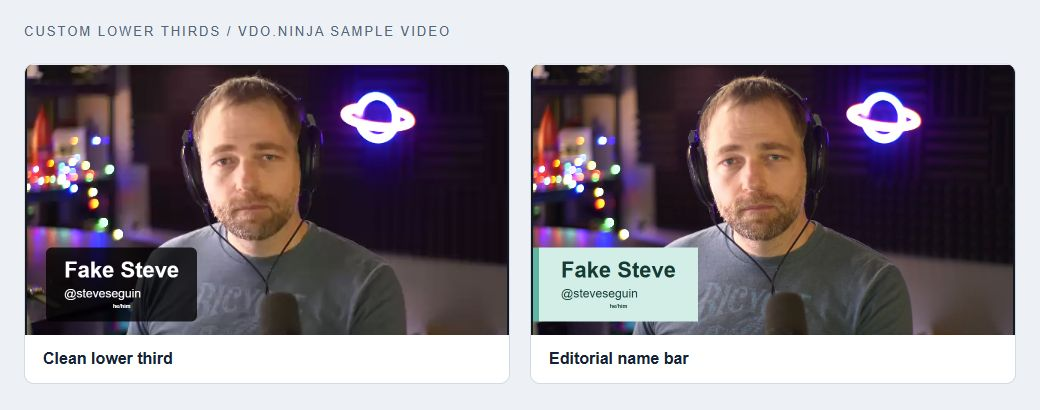
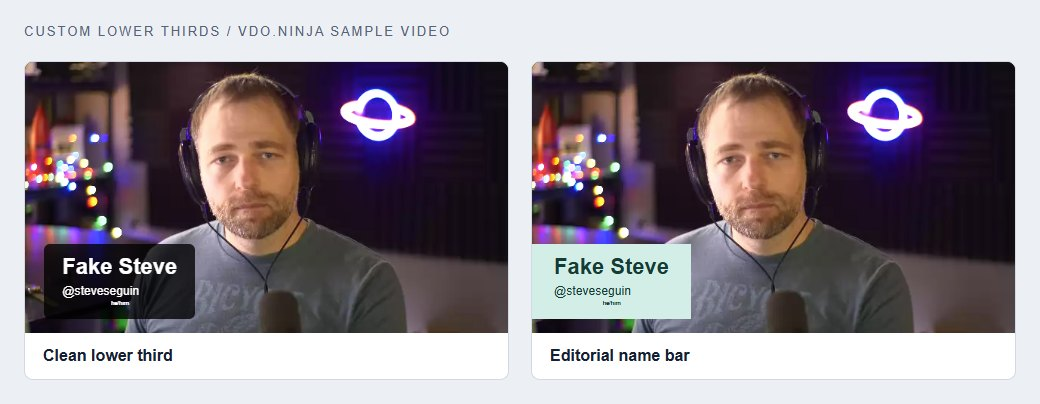
docs: Use neutral borders in guest styling examples
Remove the accent edge stripes from the editorial CSS recipe, both
starter presets and the dynamic stage nameplate. Refresh the starter
ZIP and the three screenshots, and fix a separator in the OBS page.

diff --git a/.gitbook/assets/guest-video-styling/styled-scene.html b/.gitbook/assets/guest-video-styling/styled-scene.html
@@ -86,9 +86,9 @@
 			var sound = false;
 			var currentSource = "";
 			var presets = {
-				editorial: ".video-label { bottom: 5%; left: 0; background: #d3eee7; color: #153b34; padding: 10px 22px; border-left: 6px solid #60b6a0; font-family: Arial, sans-serif; font-weight: bold; }\n.video-label > span:nth-child(2) { font-size: 55%; text-align: left; margin-top: 4px; font-weight: normal; }\n.holder, .holder > video { border-color: #60b6a0 !important; }",
+				editorial: ".video-label { bottom: 5%; left: 0; background: #d3eee7; color: #153b34; padding: 10px 22px; font-family: Arial, sans-serif; font-weight: bold; }\n.video-label > span:nth-child(2) { font-size: 55%; text-align: left; margin-top: 4px; font-weight: normal; }\n.holder, .holder > video { border-color: #60b6a0 !important; }",
 				minimal: ".video-label { bottom: 5%; left: 4%; background: rgba(0,0,0,.75); color: white; padding: 8px 14px; border-radius: 5px; font-family: Arial, sans-serif; font-weight: normal; }\n.video-label > span:nth-child(2) { font-size: 55%; text-align: left; margin-top: 3px; }\n.holder, .holder > video { border-color: #c7d4dc !important; }",
-				esports: ".video-label { bottom: 0; left: 0; width: 100%; background: #13172a; color: #f3f3ff; padding: 10px 18px; border-left: 8px solid #b3a0ff; font-family: Arial, sans-serif; font-weight: bold; text-transform: uppercase; }\n.video-label > span:nth-child(2) { font-size: 55%; text-align: left; color: #c6b9ff; margin-top: 3px; }\n.holder, .holder > video { border-color: #b3a0ff !important; }"
+				esports: ".video-label { bottom: 0; left: 0; width: 100%; background: #13172a; color: #f3f3ff; padding: 10px 18px; font-family: Arial, sans-serif; font-weight: bold; text-transform: uppercase; }\n.video-label > span:nth-child(2) { font-size: 55%; text-align: left; color: #c6b9ff; margin-top: 3px; }\n.holder, .holder > video { border-color: #b3a0ff !important; }"
 			};
 			function load() {
 				var url;

diff --git a/.gitbook/assets/guest-video-styling/dynamic-stage.html b/.gitbook/assets/guest-video-styling/dynamic-stage.html
@@ -28,7 +28,7 @@
 		.card.featured { grid-column: 1 / -1; }
 		.picture { position: relative; padding-bottom: 56.25%; background: #202436; }
 		canvas { position: absolute; top: 0; left: 0; width: 100%; height: 100%; object-fit: cover; }
-		.nameplate { display: flex; align-items: center; padding: 16px 18px; border-top: 3px solid #b3a0ff; }
+		.nameplate { display: flex; align-items: center; padding: 16px 18px; border-top: 1px solid #383d52; }
 		.identity { flex: 1; min-width: 0; }
 		.name { display: block; overflow: hidden; text-overflow: ellipsis; white-space: nowrap; font-size: 21px; }
 		.role { display: block; color: #c8c2d9; font-size: 13px; margin-top: 4px; }

diff --git a/guides/guest-video-styling/obs-and-mixer.md b/guides/guest-video-styling/obs-and-mixer.md
@@ -25,7 +25,7 @@ VDO.Ninja keeps each label attached to its guest. A separate graphic placed over
 4. Add an **Image** source for a decorative border, and a **Text** source for a name or title.
 5. Group each guest's video and artwork so they move together.
 
-[OBS source and cropping guide](https://obsproject.com/kb/sources-guide) ? [Browser Source settings](https://obsproject.com/kb/browser-source)
+[OBS source and cropping guide](https://obsproject.com/kb/sources-guide) · [Browser Source settings](https://obsproject.com/kb/browser-source)
 
 <figure><img src="../../.gitbook/assets/guest-video-styling/obs-layers.jpg" alt="A layer diagram showing a background, guest video, decorative frame, and lower third"><figcaption><p>Layer order: background at the bottom, then guest video, frame, and name. The illustration shows the composition, not OBS controls.</p></figcaption></figure>
 

diff --git a/guides/guest-video-styling/custom-css.md b/guides/guest-video-styling/custom-css.md
@@ -59,7 +59,6 @@ Replace the first rule above with:
 	left: 0;
 	background: #d3eee7;
 	color: #153b34;
-	border-left: 6px solid #60b6a0;
 	padding: 10px 22px;
 	font-family: Arial, sans-serif;
 	font-weight: bold;
